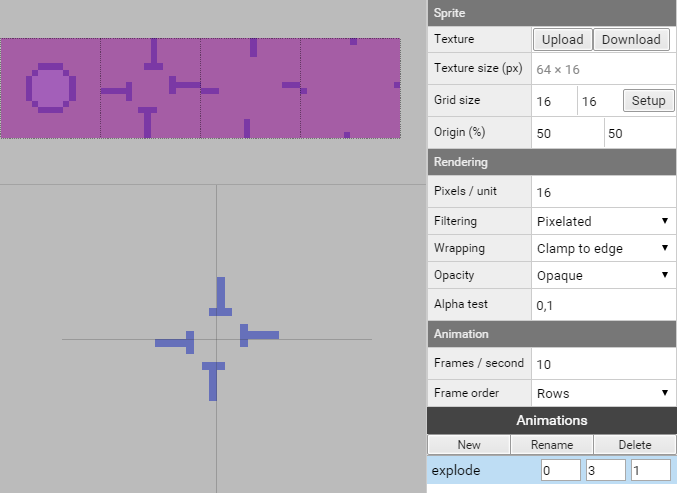
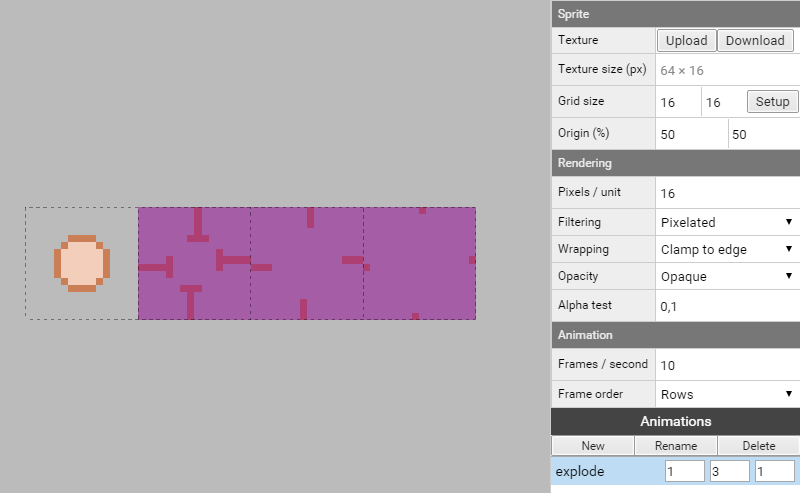
fix

diff --git a/en/ch7.md b/en/ch7.md
@@ -20,9 +20,9 @@ namespace Game{
       // Set ship 1 in game
       setShip(Ships.index.ship1);
       // Set visible false the HUD display for ship 2
-      Sup.getActor("HUD").getChild("Ship2").setVisible(false);
+      Sup.getActor("HUD").getChild("UIShip2").setVisible(false);
       // Set visible true the HUD display for alien
-      Sup.getActor("HUD").getChild("Alien").setVisible(true);
+      Sup.getActor("HUD").getChild("UIAlien").setVisible(true);
       // Set Timer HUD visible false
       Sup.getActor("HUD").getChild("Timer").setVisible(true);
     }
@@ -33,9 +33,9 @@ namespace Game{
       // Set ship 2 in game
       setShip(Ships.index.ship2);
       // Set visible true the HUD display for ship 2
-      Sup.getActor("HUD").getChild("Ship2").setVisible(true);
+      Sup.getActor("HUD").getChild("UIShip2").setVisible(true);
       // Set visible false the HUD display for alien
-      Sup.getActor("HUD").getChild("Alien").setVisible(false);
+      Sup.getActor("HUD").getChild("UIAlien").setVisible(false);
       // Set Timer HUD visible false
       Sup.getActor("HUD").getChild("Timer").setVisible(false);
     }
@@ -445,15 +445,169 @@ We now have our player ship under control, moving, rotating, slowing down, shoot
 We need now to give some behavior to the missiles.
 
 #### Ship missiles
+
+##### datas
+
+```ts
+class ShipMissileBehavior extends Sup.Behavior {
+  // shipIndex owner of this missile actor
+  shipIndex: number;
+  // Current position
+  position: Sup.Math.Vector2;
+  // Current movement velocity
+  velocity: Sup.Math.Vector2;
+  // Missile trajectory angle
+  angle: number;
+  // Timer before death
+  lifeTime: number;
+[...]
+}
+Sup.registerBehavior(ShipMissileBehavior);  
+``` 
+
+##### start and onDestroy methods
+
+When a missile born we add it to the global list of missiles that we will use to check collisions, when the missile die we remove it from the list.
+
+```ts
+  [...]
+  start() {
+    // this.actor.setLocalPosition(this.position);
+    this.velocity = new Sup.Math.Vector2(Ships.missileSpeed, 0);
+    this.velocity.rotate(this.angle);
+    this.lifeTime = Ships.missileLife;
+    // Sup.log("Missile created.")
+    Ships.missiles[this.shipIndex].push(this.actor);
+    // Sup.log(Ships.missiles);
+  }
+  [...]
+  onDestroy(){
+    // Remove the current actor from the Global list from the shipIndex owner
+    Ships.missiles[this.shipIndex].splice(Ships.missiles[this.shipIndex].indexOf(this.actor));
+  }
+  [...]
+``` 
+
+##### missile process
+
+Missile behavior is very simple, the missile born, move in one direction for a certain amount of time and then die.
+
 ```ts
 [...]
+  update() {
+    // Keep moving
+    this.position.add(this.velocity);
+    this.actor.setLocalPosition(this.position);
+    
+    // If the timer is superior to 0, decrease by one
+    if (this.lifeTime > 0) {
+      this.lifeTime--;
+      // If the timer reach 10 frame before death, play the explode animation once
+      if (this.lifeTime === 10) {
+        this.actor.getChild("Sprite").spriteRenderer.setAnimation("explode", false);
+      }
+    } 
+    // Once the lifeTime timer reach 0, destroy the Actor
+    else {
+      this.actor.destroy();
+    }
+  }
 [...]
 ``` 
+
+Before to be able to execute this code we need to create a new missile list when the game Start in the module Game of the Global script.
+
+```ts
+[...]
+  export function start(){
+    [...]
+    // Set new Ships.missiles list
+    Ships.missiles = [[], []];
+[...]
+``` 
+
 
 #### Alien missiles
+
+##### datas
+
 ```ts
+class AlienMissileBehavior extends Sup.Behavior {
+  // Current position
+  position: Sup.Math.Vector2;
+  // Current velocity
+  velocity: Sup.Math.Vector2;
+  // Target position
+  target: Sup.Math.Vector2;
 [...]
+}
+Sup.registerBehavior(AlienMissileBehavior);
+``` 
+
+##### start and onDestroy methods
+
+Like for the player ship missile, as missile born we add it to the global list of missiles that we will use to check collisions, when the missile die we remove it from the list.
+
+```ts
+[...]  
+  start() {
+    // Set current position from the actor position
+    this.position = this.actor.getLocalPosition().toVector2();
+    // Get player ship position to define as target for this missile
+    this.target = Sup.getActor("Ship1").getLocalPosition().toVector2();
+    // Get angle trajectory between this actor position and the target position
+    this.angle = this.position.angleTo(this.target);
+    // Create velocity with the Alien.missileSpeed value
+    this.velocity = new Sup.Math.Vector2(Alien.missileSpeed, 0);
+    // Convert velocity with the angle trajectory
+    this.velocity.rotate(this.angle);
+    // Add the current actor the Alien.missiles list
+    Alien.missiles.push(this.actor);
+  }
+  [...]  
+  onDestroy() {
+    // Remove this actor from the Alien.missiles list
+    Alien.missiles.splice(Alien.missiles.indexOf(this.actor), 1);
+  }
 [...]
 ``` 
 
-Now we have everything we need in place to start an important game mechanic, the collision system, we will see that in the next chapter.
+##### missile process
+
+The Alien ship missile is a bit different of the Player ship missile for using a target position (the player ship) to define the angle of trajectory. 
+The missile reach this target position and explode.
+
+```ts
+[...]  
+  update() {
+    // While the missile has no reached the target position, keep moving
+    // Add current velocity to current position
+    this.position.add(this.velocity);
+    // Update current position to missile actor
+    this.actor.setLocalPosition(this.position);
+    // Get the distance between current position and target position
+    let distance = this.target.distanceTo(this.position);
+    // When the distance to target is nearly reached, the missile explode
+    if (distance < 0.5) {
+      this.actor.getChild("Sprite").spriteRenderer.setAnimation("explode", false);
+      // When the distance is close to 0, the missile actor is destroyed
+      if (distance < 0.1) {
+        this.actor.destroy();
+      }
+    }
+  }
+[...]
+``` 
+
+Before to be able to execute this code we need to create a new missile list when the game Start in the module Game of the Global script.
+
+```ts
+[...]
+  export function start(){
+    [...]
+    // Set new Alien.missiles list
+    Alien.missiles = [];
+[...]
+``` 
+
+Good, we have now everything we need in place to start an important game mechanic, the collision system, we will see that in the next chapter.

diff --git a/en/ch4.md b/en/ch4.md
@@ -45,12 +45,12 @@ We attach our Font to it and set the color to yellow. (code : f7eaa4)
 
 ![../img/4/gameScene3.png](../img/4/gameScene3.png)
 
-We now create a **Ship1** actor, child of HUD to position (-12, 12, 0), a **Ship2** actor, child of HUD to position (10, 12, 0) and an **Alien** actor, child of HUD to position (0, -14, 0).
+We now create a **UIShip1** actor, child of HUD to position (-12, 12, 0), a **UIShip2** actor, child of HUD to position (10, 12, 0) and an **UIAlien** actor, child of HUD to position (0, -14, 0).
 
-We set off the visibility of Ship2 actor because we want a default configuration for the Asteroids game, when we will choose the Spacewar game, visibilities will change.
+We set off the visibility of UIShip2 actor because we want a default configuration for the Asteroids game, when we will choose the Spacewar game, visibilities will change.
 
-We create two Score Actor childs of actors Ship1 and Ship2 to Position (1, 2, 0), and we attach to both of them a Text Renderer with the Font Font, 
-a default Text 0 and colors for HUD/Ship1/Score of afccf8 and for HUD/Ship2/Score of f8b194.
+We create two Score Actor childs of actors UIShip1 and UIShip2 to Position (1, 2, 0), and we attach to both of them a Text Renderer with the Font Font, 
+a default Text 0 and colors for HUD/UIShip1/Score of afccf8 and for HUD/UIShip2/Score of f8b194.
 
 ![../img/4/gameScene4.png](../img/4/gameScene4.png)
 
@@ -62,19 +62,19 @@ Alien have 5 hearts, here all the parameters of the HUD to configure the hearts 
 
 * HUD, Position (0, 0, 25), Visible true, 
    * Timer, Position (0, 14, 0), Visible true, Text Renderer, Font Font, Text 0:00, Color f7eaa4
-   * Ship1, Position (-12, 12, 0), Visible true, 
+   * UIShip1, Position (-12, 12, 0), Visible true, 
       * Score, Position (1, 2, 0), Text Renderer, Font Font, Text 0, Color afccf8
       * Life, Position (0, 0, 0)
          * 0, Position (**0**, 0, 0), Sprite Renderer, Sprite Ship/0/Life/Sprite, Animation full
          * 1, Position (**1**, 0, 0), Sprite Renderer, Sprite Ship/0/Life/Sprite, Animation full
          * 2, Position (**2**, 0, 0), Sprite Renderer, Sprite Ship/0/Life/Sprite, Animation full
-   * Ship2, Position (10, 12, 0), Visible **false**, 
+   * UIShip2, Position (10, 12, 0), Visible **false**, 
       * Score, Position (1, 2, 0), Text Renderer, Font Font, Text 0, Color f8b194
       * Life, Position (0, 0, 0)
          * 0, Position (**0**, 0, 0), Sprite Renderer, Sprite Ship/1/Life/Sprite, Animation full
          * 1, Position (**1**, 0, 0), Sprite Renderer, Sprite Ship/1/Life/Sprite, Animation full
          * 2, Position (**2**, 0, 0), Sprite Renderer, Sprite Ship/1/Life/Sprite, Animation full
-   * Alien, Position (0, -14, 0), Visible true, 
+   * UIAlien, Position (0, -14, 0), Visible true, 
       * Life, Position (0, 0, 0)
          * 0, Position (**-2**, 0, 0), Sprite Renderer, Sprite Alien/Life/Sprite, Animation full
          * 1, Position (**-1**, 0, 0), Sprite Renderer, Sprite Alien/Life/Sprite, Animation full

diff --git a/en/ch3.md b/en/ch3.md
@@ -93,7 +93,7 @@ Life sprites have 2 animations with one frame each :
 Missile sprites, upload the ship1missile.png for ship 1 and ship2missile.png for ship 2, both have a grid size of 16 x 16, and pixel / unit ratio of 16.  
 Missile sprites have 1 animation :
 
-* **explode** with the start frame to position 0 and end frame to position 3.
+* **explode** with the start frame to position 1 and end frame to position 3.
 
 ![../img/3/missile.png](../img/3/missile.png)
 
@@ -131,7 +131,7 @@ Like for the ship, life sprites have 2 animations with one frame each :
 For the missile sprite, we upload the alienMissile.png with a grid size of 16 x 16, and pixel / unit ratio of 16.  
 Missile sprite have 1 animation :
 
-* **explode** with the start frame to position 0 and end frame to position 3.
+* **explode** with the start frame to position 1 and end frame to position 3.
 
 
 ##### explosion sprite

diff --git a/en/ch6.md b/en/ch6.md
@@ -176,6 +176,8 @@ Now we write the complete behavior of the ship in the update loop. Here the comp
     if (this.position.x < -Game.bounds.width / 2) {
       this.position.x = Game.bounds.width / 2;
     }
+    
+    // Collision code will come here
   }
 [...]
 ```
@@ -407,6 +409,8 @@ Very much like the asteroid update loop, we can now write our update loop as fol
     if (this.position.y < -Game.bounds.height / 2) {
       this.position.y = Game.bounds.height / 2
     }
+    
+    // Collision code will come here
   }
 [...] 
 ```

diff --git a/en/SUMMARY.md b/en/SUMMARY.md
@@ -6,10 +6,7 @@
 * [Chapter 4: Setting the game scene and prefabs](ch4.md)
 * [Chapter 5: Building the basic program structure](ch5.md)
 * [Chapter 6: Writing Alien and Asteroids behaviors](ch6.md)
-* Writing Ship and Missile behavior
-   * Ship moving
-   * Ship Shooting
-   * Alien Shooting
+* [Chapter 7: Writing Ship and Missile behavior](ch7.md)
 * Writing Collisions, Lifes and Points system.
    * Collision system
    * Explosions animation

diff --git a/en/README.md b/en/README.md
@@ -33,3 +33,4 @@
     * [Init game behavior](ch5.md#init-game-behavior)
     * [Global first functions](ch5.md#global-first-functions)
 * [Chapter 6: Writing Alien and Asteroids behaviors](ch6.md)
+* [Chapter 7: Writing Ship and Missile behavior](ch7.md)
